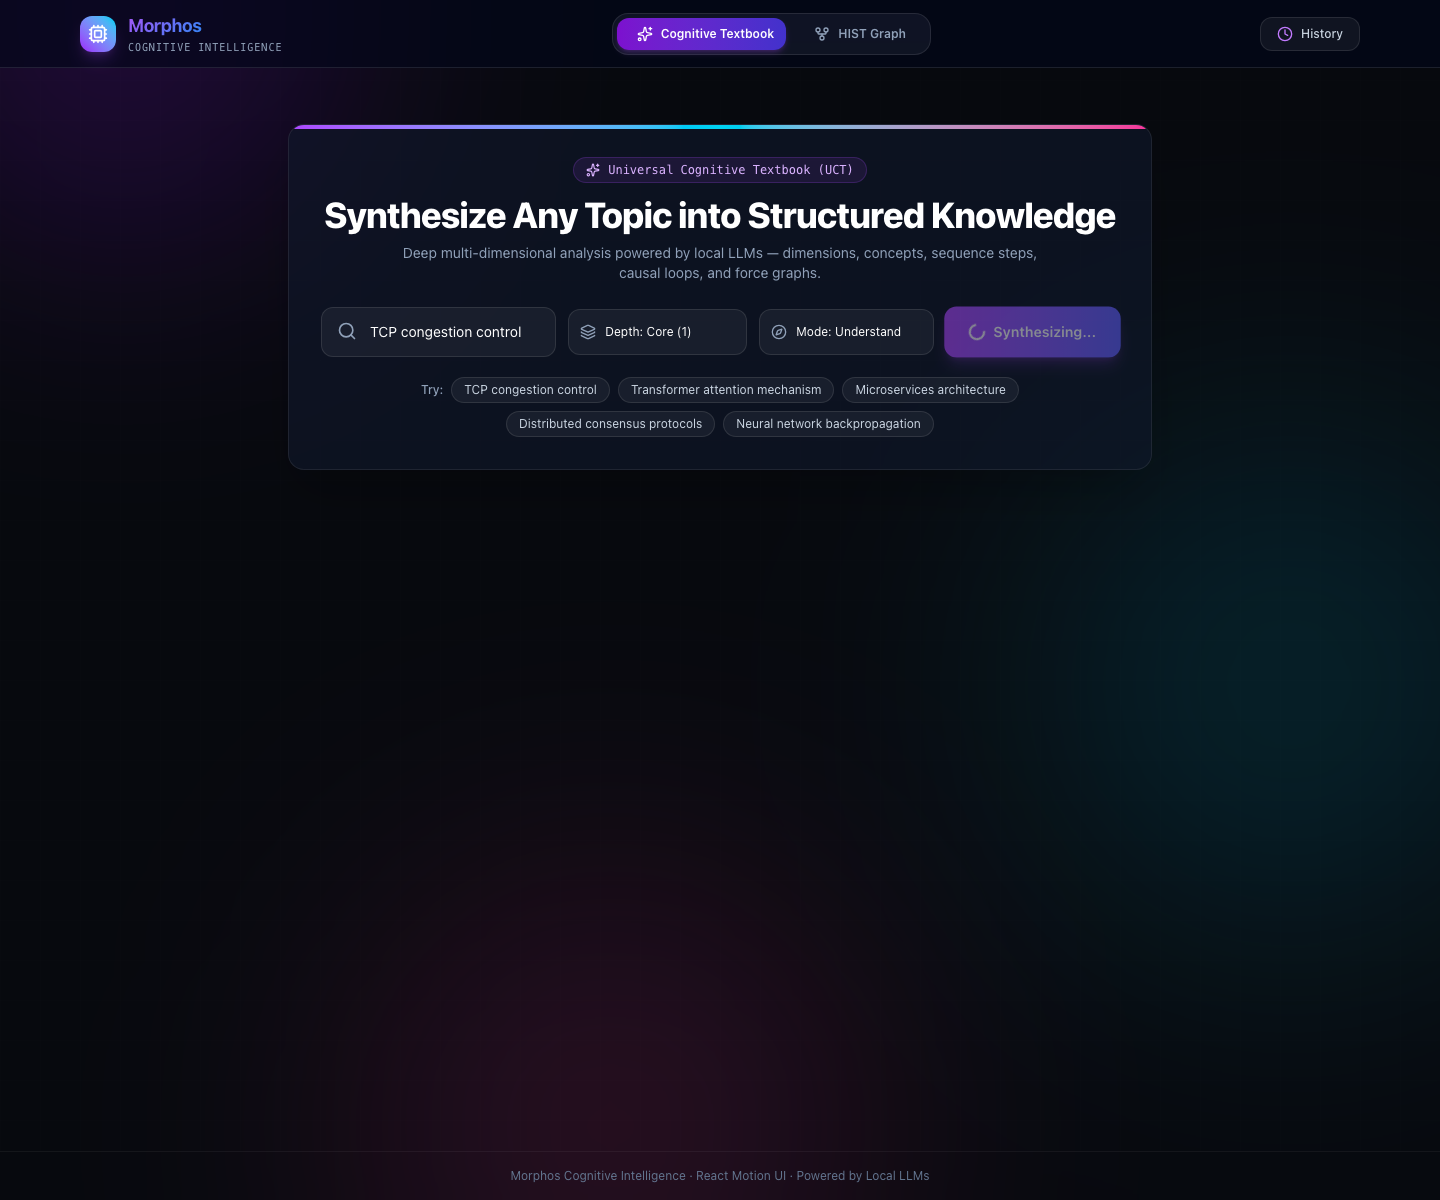
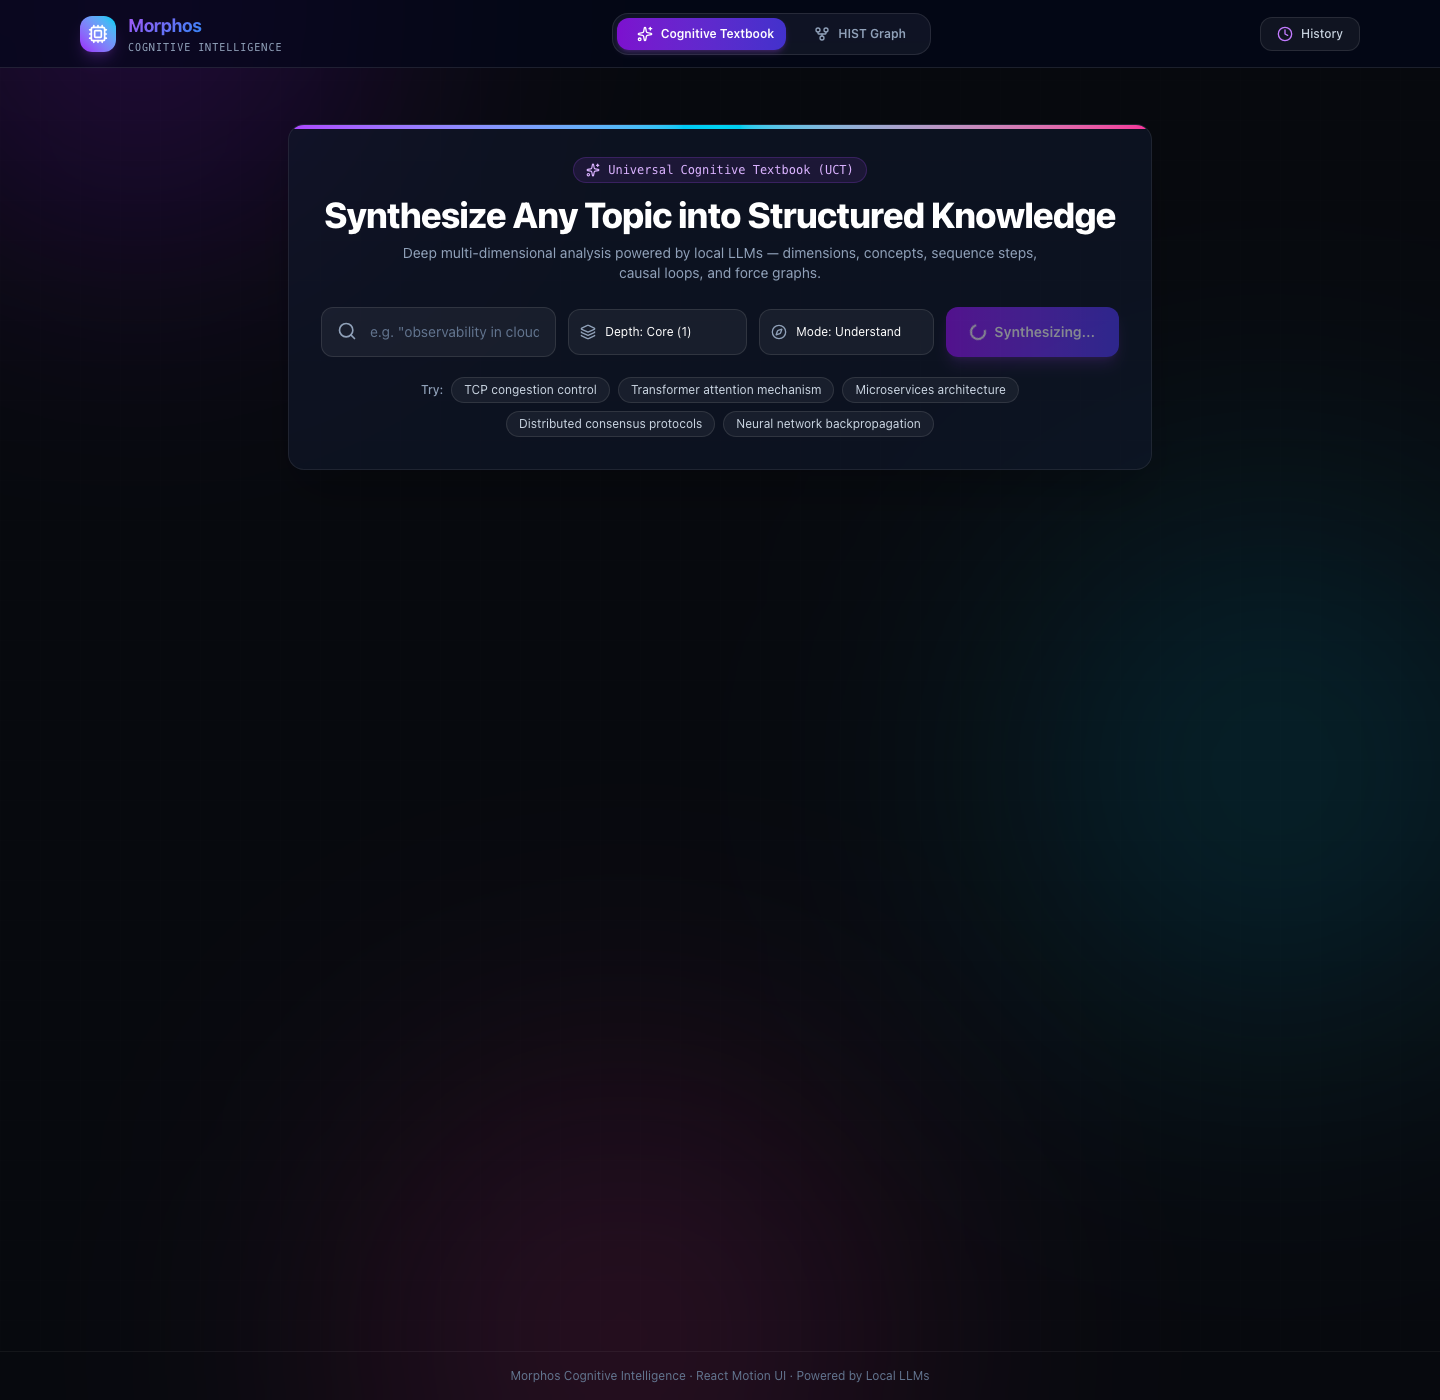
fix: HistoryDrawer z-index and capture updated loaded topic dashboard screenshot

diff --git a/webui/frontend/src/components/common/HistoryDrawer.tsx b/webui/frontend/src/components/common/HistoryDrawer.tsx
@@ -36,7 +36,7 @@ export const HistoryDrawer: React.FC<HistoryDrawerProps> = ({
             animate={{ opacity: 1 }}
             exit={{ opacity: 0 }}
             onClick={onClose}
-            className="fixed inset-0 z-50 bg-black/60 backdrop-blur-sm"
+            className="fixed inset-0 z-40 bg-black/60 backdrop-blur-sm"
           />
 
           {/* Slide-over Panel */}

diff --git a/conversations.md b/conversations.md
@@ -418,3 +418,9 @@ Results fetching now fetches up to `max_results*3` raw articles, filters ads/ads
 **Q:** Commit and push.
 
 **A:** Staged changes (`git add .`), committed with `feat: implement Phase 008 React Motion UI, HIST D3 Force Graph, and Neo4j hardening` (commit `9dc4546`), and pushed cleanly to remote branch `origin/main`.
+
+## 2026-07-21T15:00:31-05:00 — Cognitive Textbook & Topic History Screenshots
+
+**Q:** Need to capture screenshot to show Cognitive Textbook and topic History.
+
+**A:** Automated browser capture via Playwright Chrome for `screenshots/react_motion_uct_dashboard.png` (Cognitive Textbook topic dashboard with dimension bars, concept cards, D3 force graph, sequence pipeline, causal loops, matrices) and `screenshots/react_motion_history_drawer.png` (slide-over Topic History Drawer). Updated `README.md`, committed (`ec4c532`), and pushed to `origin/main`.